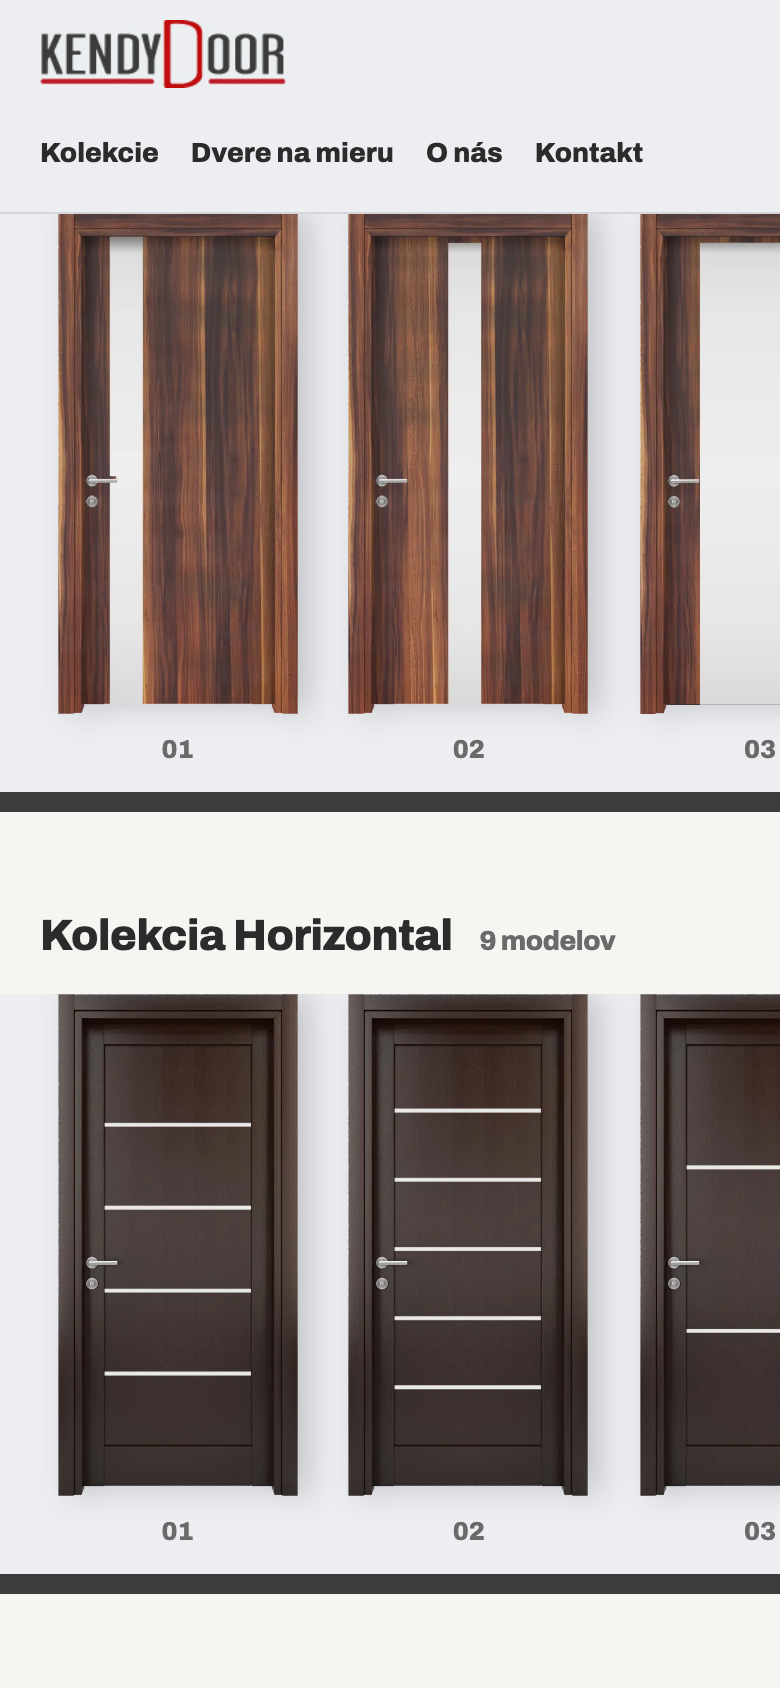
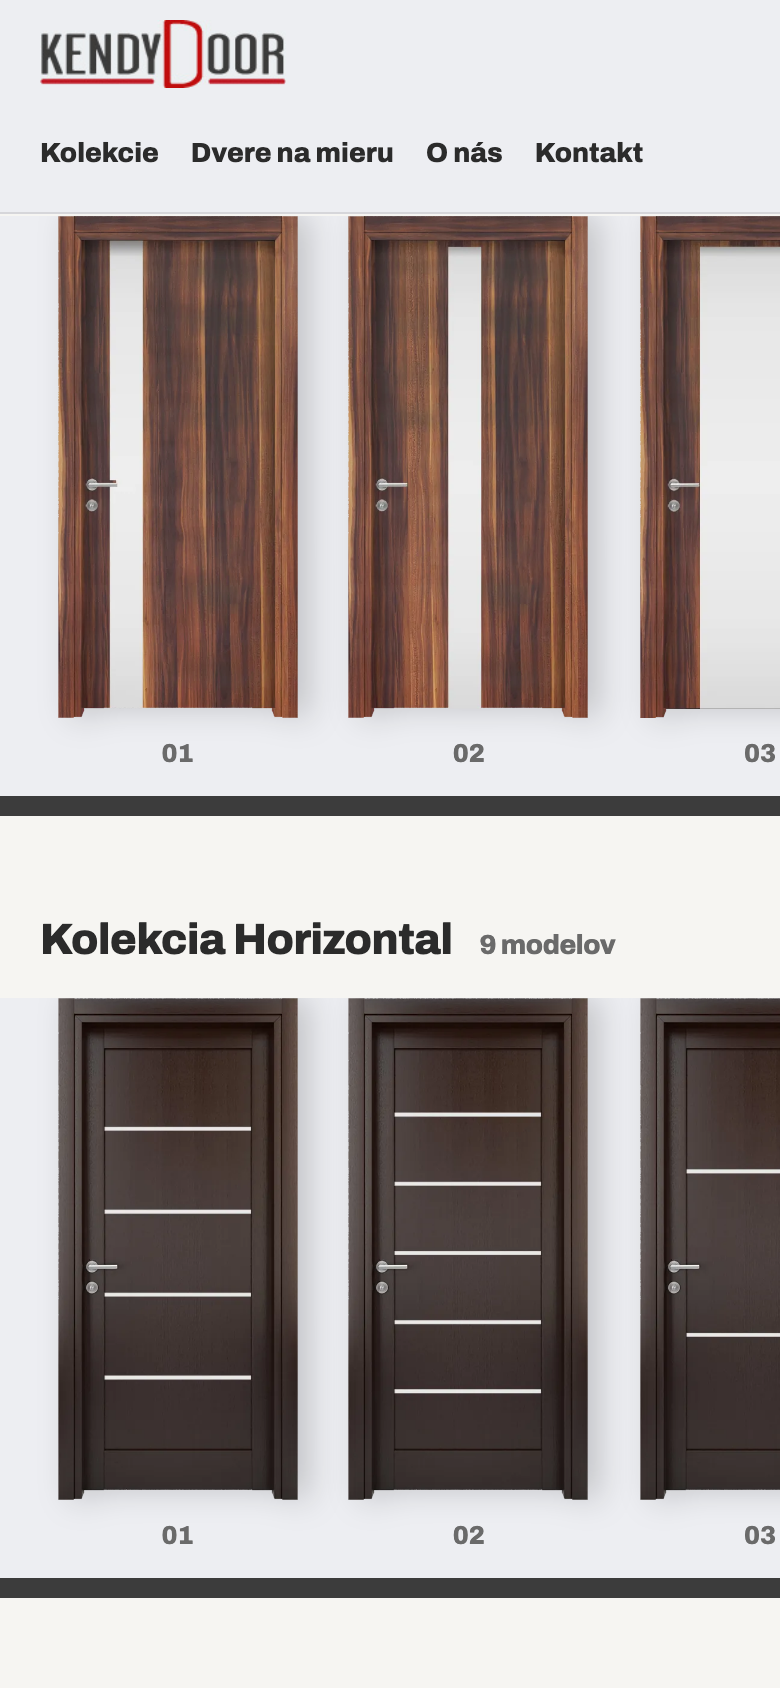
Aktualizace webu 2026-10-26 10:43

diff --git a/static/css/style.css b/static/css/style.css
@@ -27,24 +27,18 @@ a { color: inherit; }
 .tlacidla { display: flex; flex-wrap: wrap; gap: .8rem; margin-top: 2rem; }
 
 .hero { padding-block: clamp(2.5rem, 7vw, 6rem); }
-.hero-g { display: grid; grid-template-columns: 1fr 1.15fr; gap: clamp(1.5rem, 5vw, 4rem); align-items: center; }
+.hero-g { display: grid; grid-template-columns: .85fr 1.5fr; gap: clamp(1.5rem, 4vw, 3.5rem); align-items: center; }
 .stitok { font-size: .85rem; font-weight: 600; text-transform: uppercase; letter-spacing: .12em; color: var(--red); margin-bottom: 1rem; }
 .hero h1 { font-size: clamp(2.2rem, 5vw, 3.9rem); font-weight: 700; }
 .uvod { margin-top: 1.4rem; font-size: 1.15rem; color: var(--muted); max-width: 34rem; }
-.hero-f img { width: 100%; aspect-ratio: 976/505; object-fit: cover; border-bottom: 6px solid var(--red); }
+.hero-f img { width: 100%; aspect-ratio: 4/3; object-fit: cover; object-position: 30% center; border-bottom: 6px solid var(--red); }
 
-.fakta { background: var(--graf); color: #fff; }
-.fakta-g { display: grid; grid-template-columns: repeat(4, 1fr); gap: 1.5rem; padding-block: 1.8rem; }
-.fakta p { font-size: .92rem; color: #cfcfd4; line-height: 1.4; }
-.fakta b { display: block; color: #fff; font-size: 1.25rem; font-weight: 600; margin-bottom: .2rem; }
 
 .sekcia { padding-block: clamp(4rem, 9vw, 7.5rem) 0; }
 .sekcia:last-of-type { padding-bottom: clamp(4rem, 9vw, 7.5rem); }
 .sekcia h2 { font-size: clamp(1.9rem, 3.6vw, 2.8rem); font-weight: 700; }
 .podnadpis { margin-top: 1rem; color: var(--muted); max-width: 40rem; }
 .kol-nav { display: flex; flex-wrap: wrap; gap: .5rem; margin-top: 1.8rem; }
-.kol-nav a { font-size: .9rem; text-decoration: none; border: 1px solid var(--line); padding: .35rem .8rem; border-radius: 2rem; background: #fff; }
-.kol-nav a:hover { border-color: var(--red); color: var(--red); }
 
 .kolekcia { margin-top: 3.2rem; }
 .kolekcia h3 { font-size: 1.35rem; margin-bottom: 1rem; }
@@ -86,10 +80,23 @@ blockquote { margin: 1.6rem 0 0; padding-left: 1.2rem; border-left: 4px solid va
 .paticka { background: var(--graf); color: #cfcfd4; font-size: .9rem; padding-block: 1.6rem; }
 .paticka .wrap { display: flex; flex-wrap: wrap; gap: .5rem 2rem; }
 
-@media (max-width: 62rem) { .hero-g, .na-mieru, .o-nas, .kontakt-g { grid-template-columns: 1fr; } .fakta-g { grid-template-columns: 1fr 1fr; } }
+@media (max-width: 62rem) { .hero-g, .na-mieru, .o-nas, .kontakt-g { grid-template-columns: 1fr; } }
 @media (max-width: 40rem) {
   .hlavicka .wrap { flex-wrap: wrap; } .hlavicka nav { gap: 1rem; font-size: .85rem; width: 100%; overflow-x: auto; }
-  .logo img { height: 34px; } .rad::before, .rad::after { content: ''; flex: 0 0 max(.2rem, calc((100vw - 72rem) / 2 - 1.4rem)); }
-.rad li { width: 7.5rem; } .tlacidla .btn { width: 100%; text-align: center; }
+  .tlacidla .btn { width: 100%; text-align: center; }
 }
 @media (prefers-reduced-motion: reduce) { html { scroll-behavior: auto; } }
+
+.kol-nav button { font: inherit; font-size: .95rem; border: 1px solid var(--line); padding: .6rem 1rem; min-height: 44px; border-radius: 2rem; background: #fff; cursor: pointer; color: var(--graf); }
+.kol-nav button:hover { border-color: var(--red); color: var(--red); }
+.kol-nav button[aria-selected="true"] { background: var(--red); border-color: var(--red); color: #fff; }
+.js .kolekcia[hidden] { display: none; }
+.kolekcia { margin-top: 2rem; }
+.kolekcia .rad { display: grid; grid-template-columns: repeat(auto-fill, minmax(9.5rem, 1fr)); gap: 1.6rem 1.2rem; overflow: visible; padding: 2rem 1.4rem 0; max-width: 72rem; margin-inline: auto; border-bottom: 0; }
+.kolekcia .rad::before, .kolekcia .rad::after { display: none; }
+.kolekcia .rad li { width: auto; }
+.kolekcia { background: var(--stena); border-bottom: 10px solid var(--graf); padding-bottom: 1.2rem; }
+.kolekcia h3 { padding-top: 1.8rem; }
+.na-obraz { margin-bottom: clamp(2rem, 5vw, 3.5rem); }
+.na-obraz img { width: 100%; height: auto; aspect-ratio: 980/200; object-fit: cover; }
+@media (max-width: 40rem) { .hlavicka nav a { padding: .8rem .2rem; } .logo img { max-width: 184px; height: auto; } .hero-f img { aspect-ratio: 16/11; } }

diff --git a/src/index.html b/src/index.html
@@ -14,32 +14,24 @@
   </div>
 </section>
 
-<section class="fakta" aria-label="O výrobe">
-  <div class="wrap fakta-g">
-    <p><b>Od roku 1998</b>drevárska výroba z masívu</p>
-    <p><b>Dyhy</b>z európskych aj cudzokrajných drevín</p>
-    <p><b>132 dekorov</b>termoplastických fólií</p>
-    <p><b>CNC</b>výroba od roku 2011</p>
-  </div>
-</section>
-
 <section class="sekcia" id="kolekcie">
   <div class="wrap">
     <h2>Kolekcie dverí</h2>
     <p class="podnadpis">Desať kolekcií od klasiky po moderné línie. Obrázky dverí sú ilustračné a detaily sa špecifikujú pri objednávke.</p>
-    <nav class="kol-nav" aria-label="Kolekcie">{% for k in data.kolekcie %}<a href="#k-{{ k.id }}">{{ k.nazev }}</a>{% endfor %}</nav>
+    <div class="kol-nav" role="tablist" aria-label="Kolekcie">{% for k in data.kolekcie %}<button type="button" role="tab" id="t-{{ k.id }}" aria-controls="k-{{ k.id }}" aria-selected="{{ 'true' if loop.first else 'false' }}">{{ k.nazev }}</button>{% endfor %}</div>
   </div>
   {% for k in data.kolekcie %}
-  <div class="kolekcia" id="k-{{ k.id }}">
+  <div class="kolekcia" id="k-{{ k.id }}" role="tabpanel" aria-labelledby="t-{{ k.id }}">
     <div class="wrap"><h3>Kolekcia {{ k.nazev }} <small>{{ k.dvere|length }} modelov</small></h3></div>
-    <ul class="rad" role="list" tabindex="0" aria-label="Kolekcia {{ k.nazev }}">
-      {% for d in k.dvere %}<li>{{ img('dvere/' ~ d, 'Dvere ' ~ k.nazev ~ ' ' ~ loop.index, sizes='200px', eager=false) }}<span>{{ '%02d' % loop.index }}</span></li>{% endfor %}
+    <ul class="rad" role="list">
+      {% for d in k.dvere %}<li>{{ img('dvere/' ~ d, 'Dvere ' ~ k.nazev ~ ' ' ~ loop.index, sizes='(min-width: 62rem) 11rem, 40vw', eager=false) }}<span>{{ '%02d' % loop.index }}</span></li>{% endfor %}
     </ul>
   </div>
   {% endfor %}
 </section>
 
 <section class="sekcia tmava" id="na-mieru">
+  <div class="wrap na-obraz">{{ img('onas.jpg', 'Interiérové dvere KENDY DOOR v obývacej izbe', sizes='(min-width: 72rem) 72rem, 100vw', eager=false) }}</div>
   <div class="wrap na-mieru">
     <h2>Dvere na mieru</h2>
     <div>

diff --git a/static/js/main.js b/static/js/main.js
@@ -19,3 +19,20 @@
     });
   });
 })();
+
+// Záložky kolekcií
+(function () {
+  var tabs = document.querySelectorAll('.kol-nav [role=tab]');
+  if (!tabs.length) return;
+  document.documentElement.classList.add('js');
+  function otvor(t) {
+    tabs.forEach(function (x) {
+      var on = x === t;
+      x.setAttribute('aria-selected', on ? 'true' : 'false');
+      var p = document.getElementById(x.getAttribute('aria-controls'));
+      p.hidden = !on;
+    });
+  }
+  tabs.forEach(function (t) { t.addEventListener('click', function () { otvor(t); }); });
+  otvor(tabs[0]);
+})();
